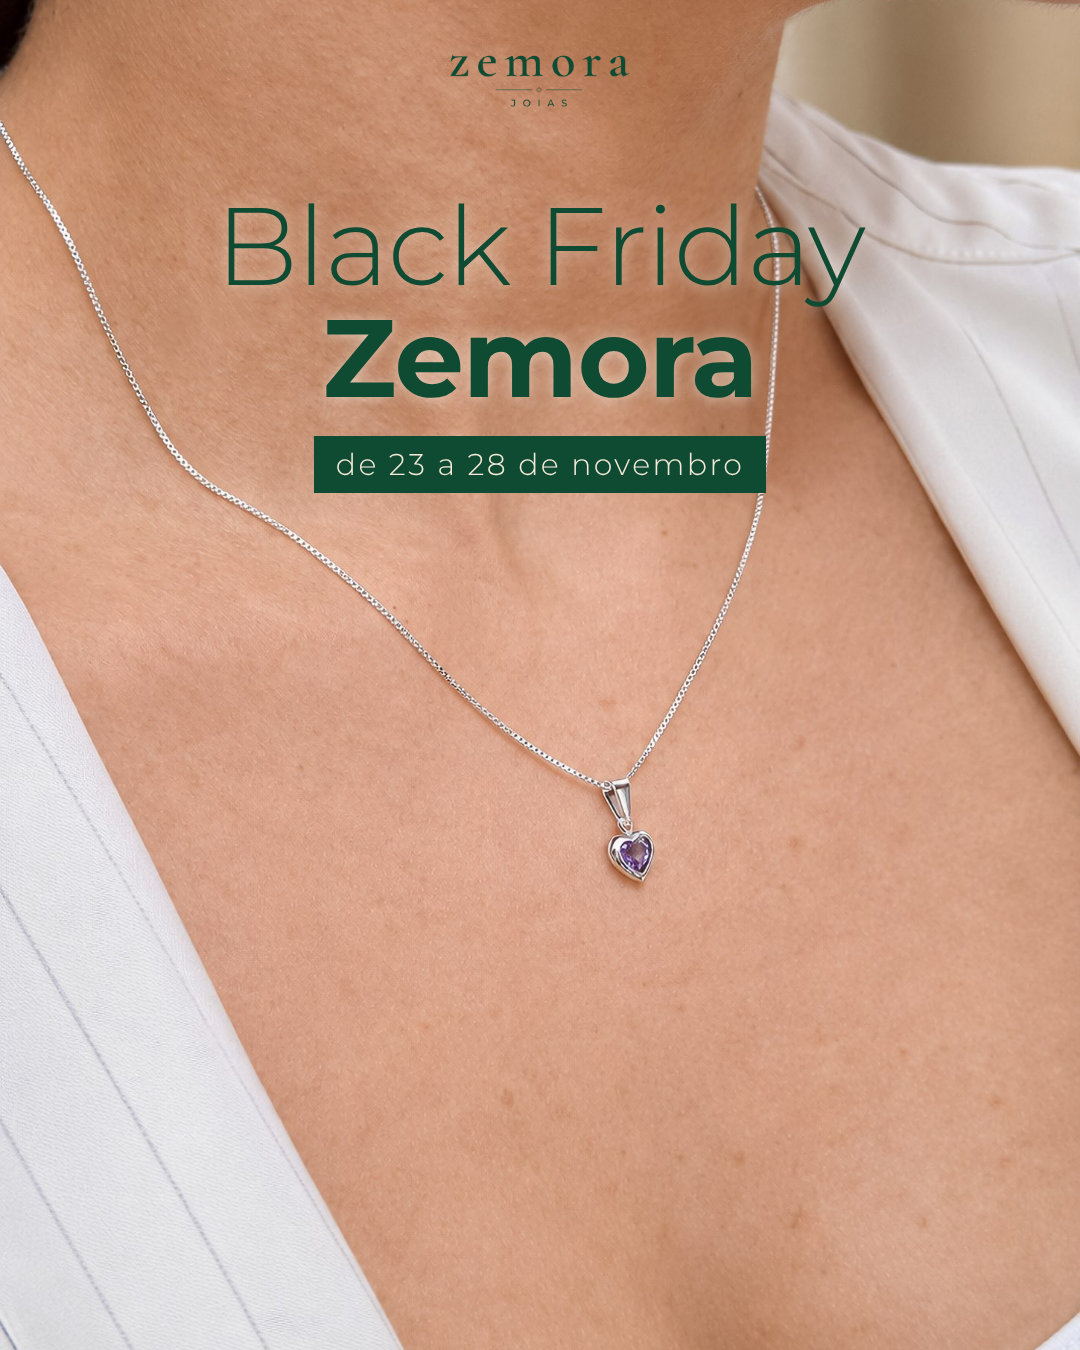
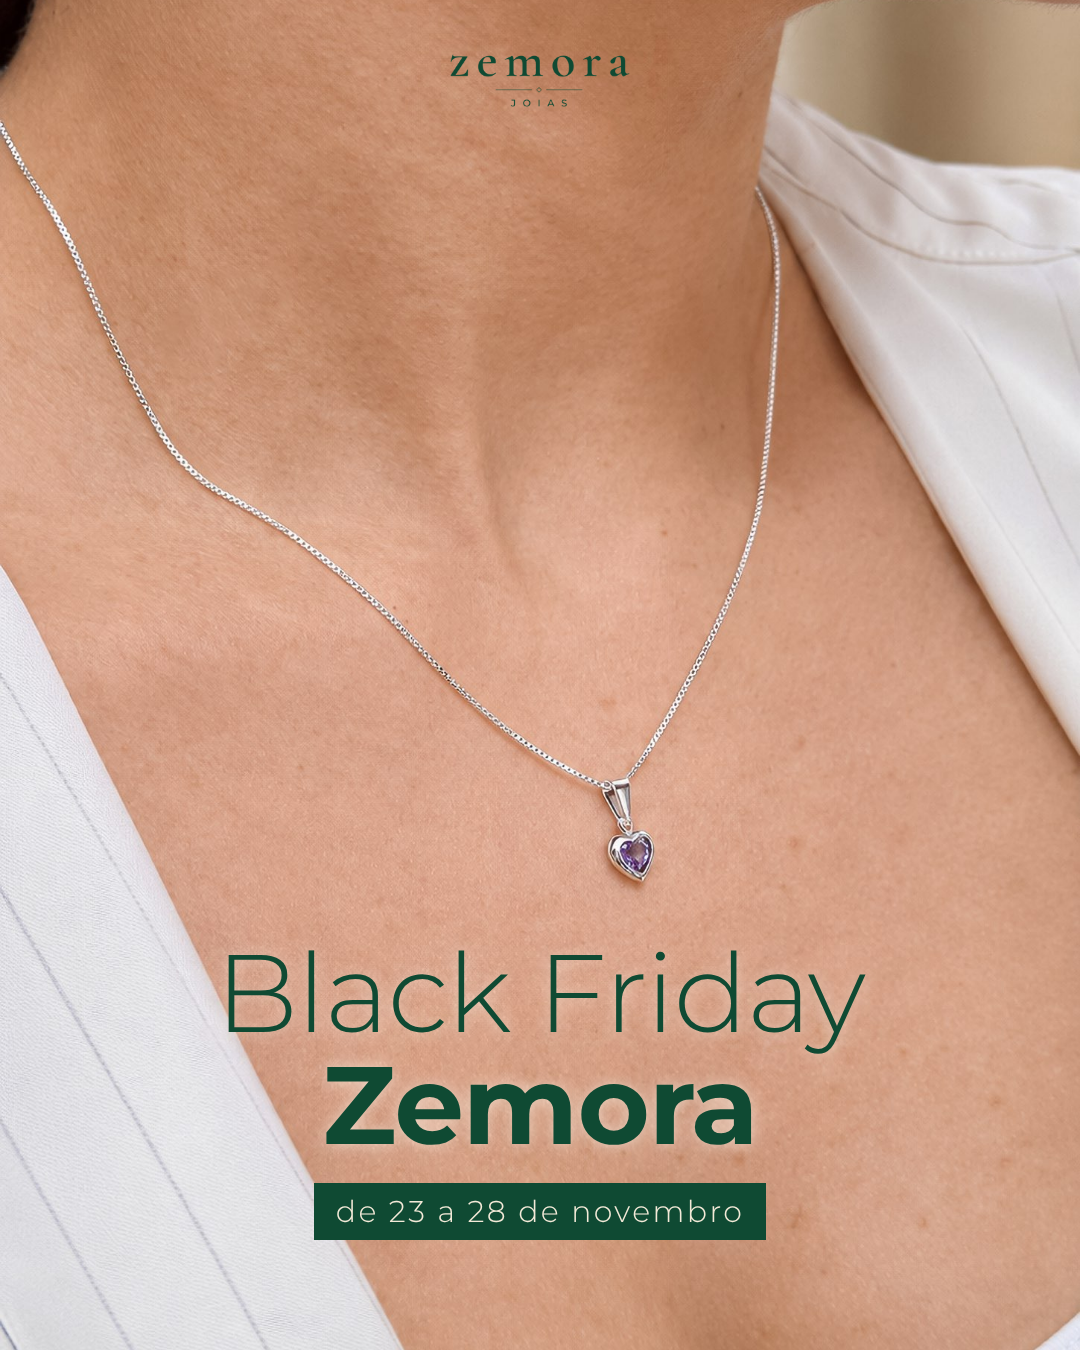
Último carrossel: texto da capa abaixo do colar
Claude-Session: https://claude.ai/code/session_01Ds4o6DPNY229NefAqtX4RB

Changed region(s): [[0.2139, 0.6844, 0.7944, 0.9333], [0.2139, 0.1556, 0.7333, 0.3733], [0.4889, 0.1556, 0.7944, 0.2489]]

diff --git a/cards/render-carrossel.js b/cards/render-carrossel.js
@@ -30,7 +30,7 @@ const sets={dp:[
  {n:6,foto:'preco-cta.jpg',pos:'50% 50%',v:'bottom:110px',ts:0,body:`<span class="hl" style="font:600 34px/1 Montserrat;letter-spacing:.2em;padding:26px 44px 26px 50px">ACESSE O LINK DA BIO</span>`},
  ],
  final:[
- {n:1,logo:'logo-zemora-verde.png',foto:'bf6-pescoco.jpg',pos:'50% 35%',v:'top:190px',ts:110,body:`<h1 class="dark thin">Black Friday<br><b>Zemora</b></h1><div class="sub thin-sub"><span>de 23 a 28 de novembro</span></div>`},
+ {n:1,logo:'logo-zemora-verde.png',foto:'bf6-pescoco.jpg',pos:'50% 35%',v:'bottom:110px',ts:110,body:`<h1 class="dark thin">Black Friday<br><b>Zemora</b></h1><div class="sub thin-sub"><span>de 23 a 28 de novembro</span></div>`},
  ]};
 const set=process.argv[3]||'dp';const prefix={dp:'zemora-dourado-prata',ac:'zemora-acessorios',bf6:'zemora-bf-ofertas',precos:'zemora-precos',final:'zemora-bf-final'}[set];const cards=sets[set];
 (async()=>{const b=await chromium.launch();const p=await b.newPage({viewport:{width:1080,height:1350}});
